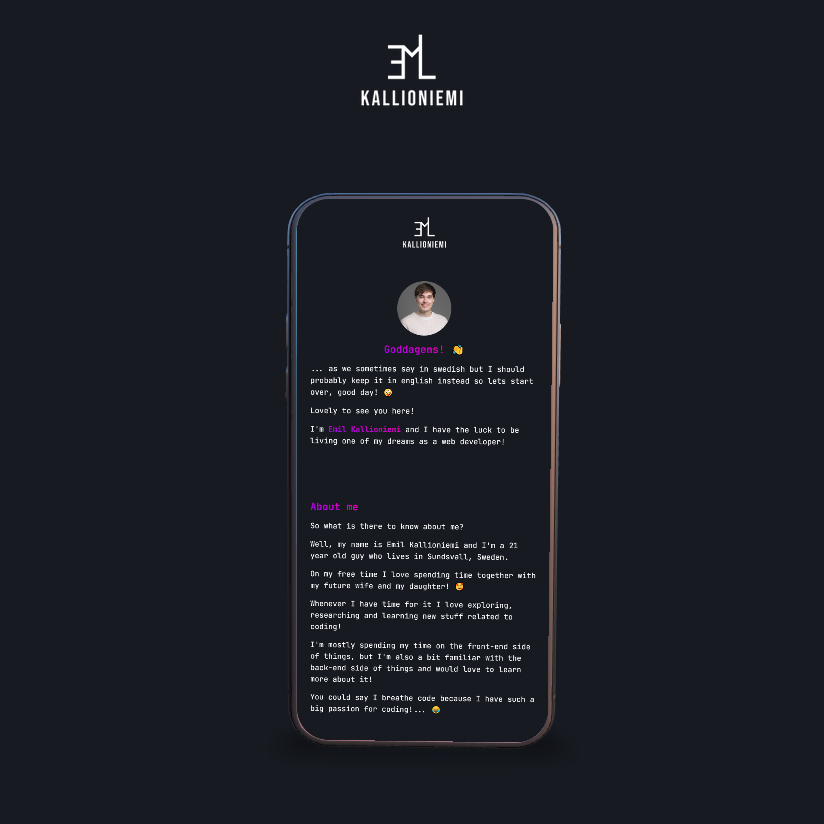
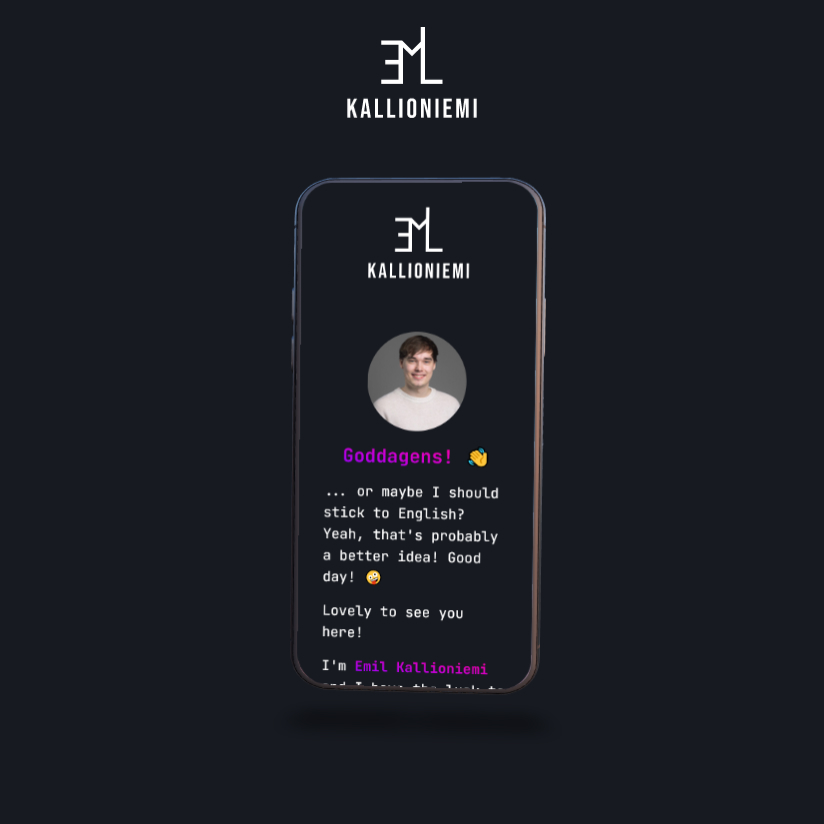
WIP

Changed region(s): [[0.3337, 0.2124, 0.6978, 0.9102], [0.4248, 0.0303, 0.5765, 0.1517]]

diff --git a/src/components/Experience.tsx b/src/components/Experience.tsx
@@ -146,7 +146,7 @@ export default function Phone(props) {
           geometry={nodes.SCREEN.geometry}
           material={materials["Display.002"]}
         >
-          <Html transform distanceFactor={2} position={[0.22, 0, 0.05]}>
+          <Html transform distanceFactor={2} position={[0, 0, 0]}>
             <main className="website w-[93%] h-[652px] overflow-x-hidden rounded-[40px] bg-dark-primary">
               <Header />
               <Website />
